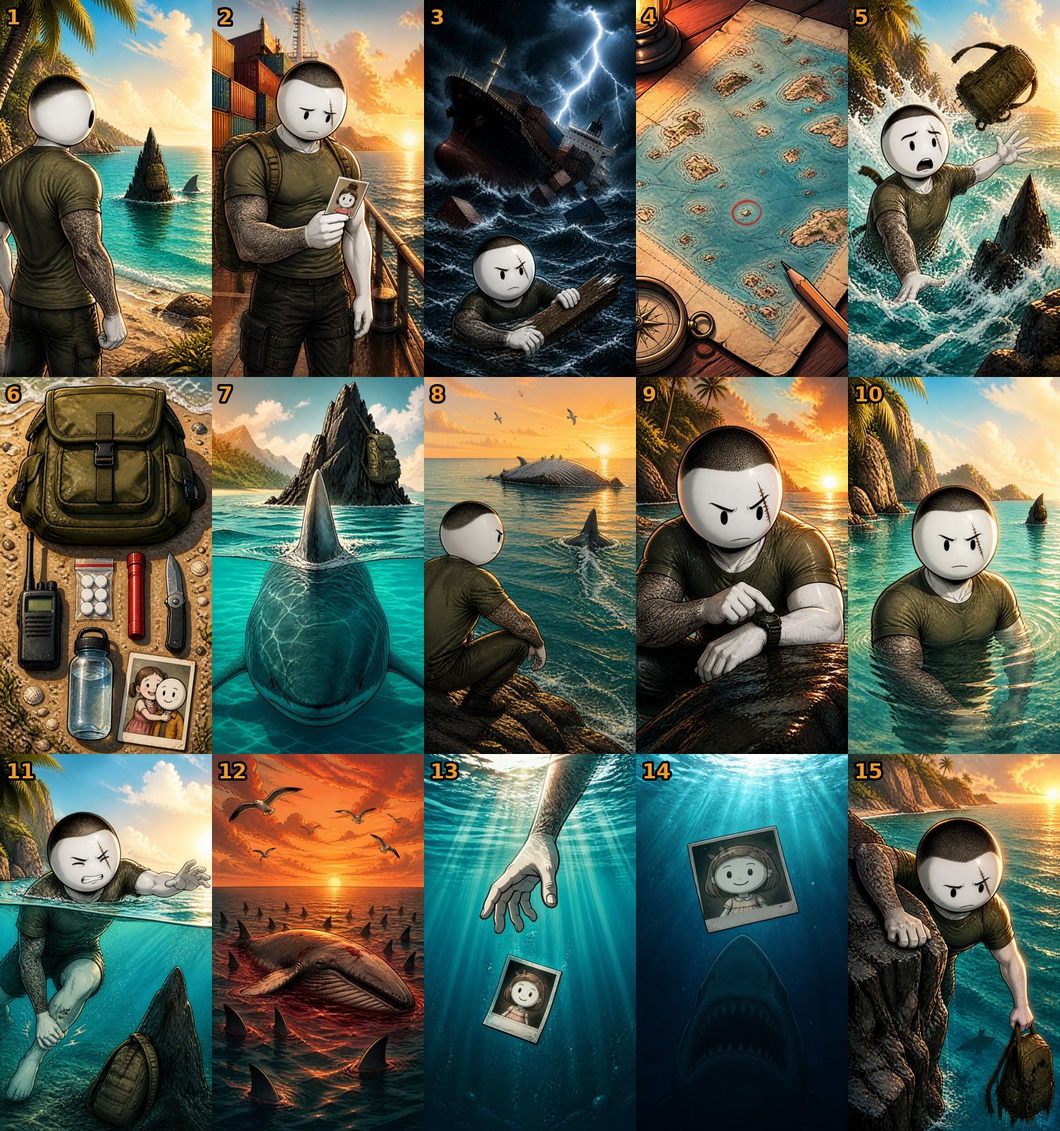
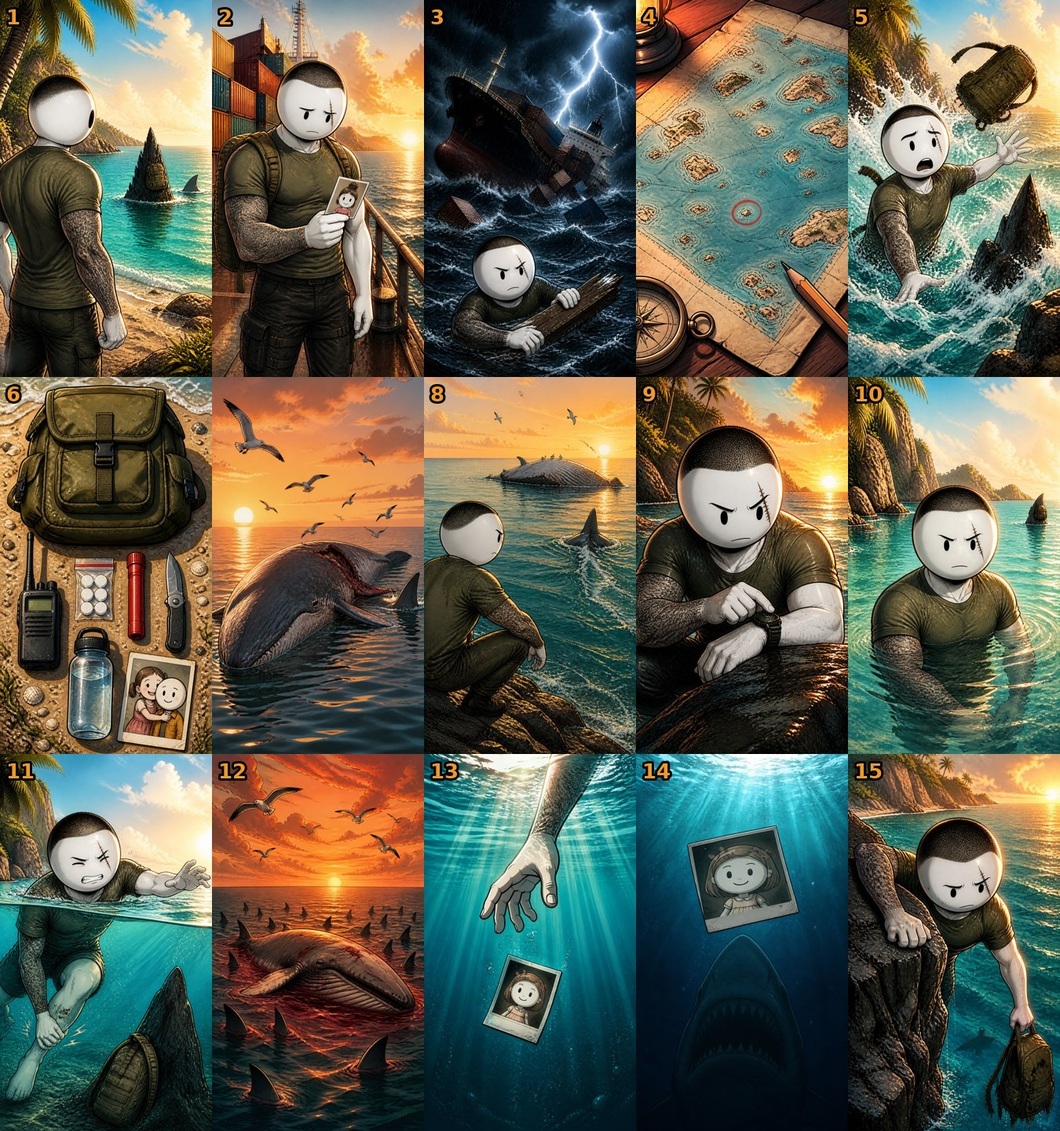
ADA 9 b1: 12. sahne tek köpekbalığı + martı, yeni GERÇEK kartı ve metin
Claude-Session: https://claude.ai/code/session_014JxJGDekTQeiZJynemFY6T

Changed region(s): [[0.1867, 0.3125, 0.4044, 0.6875]]

diff --git a/public/episodes/ada9-b1-dort-dakika/build.py b/public/episodes/ada9-b1-dort-dakika/build.py
@@ -49,9 +49,10 @@ a("s11", "Kırk metre. Yirmi beş. Bacağına kramp giriyor. İki dakika kaldı.
   "Kemal swimming in the ocean, face grimacing in pain, one leg cramping, the rock with the backpack still ahead of him. Split view slightly above and below the water line. " + K,
   caption="40 metre. 25. Bacağına kramp giriyor. 2 dakika kaldı.",
   timer=120, hud={"mesafe": "25 m", "nabiz": 168}, motion="shake", tone="tense")
-a("s12", "Ama bir balina leşi tek bir köpekbalığını değil, hepsini çağırır.",
-  "Far away on the horizon the dead whale carcass surrounded by dozens of shark fins in bloody water, seagulls circling. Ominous.",
-  timer=95, card={"type": "fact", "title": "GERÇEK KURAL", "text": "Tek bir balina leşinin başında aynı anda 40'a yakın büyük beyaz köpekbalığı görüldü.", "from": 0.3},
+a("s12", "Ama büyük beyaz, kısa bir atakta saatte otuz beş kilometreyi geçer. Kırk metre, onun için dört saniye.",
+  "Wide ocean view at sunset: a huge dead whale carcass floating in the sea, only one great white shark fin next to it, seagulls circling above.",
+  caption="Ama büyük beyaz, kısa bir atakta saatte 35 kilometreyi geçer. 40 metre, onun için 4 saniye.",
+  timer=95, card={"type": "fact", "title": "GERÇEK KURAL", "text": "Büyük beyaz köpekbalığı kısa ataklarda saatte 35 km'yi aşan hızlara çıkabilir.", "from": 0.3},
   motion="zoomIn", tone="dramatic")
 a("s13", "Kayaya ulaşıyor ama askı sıkışmış. Çekiyor, çanta yırtılıyor ve içinden bir şey düşüp batıyor: kızının fotoğrafı.",
   "Underwater view: a small photo of a smiling little girl slowly sinking down through turquoise water with light rays, above it Kemal's tattooed hand reaching down, the torn backpack on the rock at the surface. " + K,
